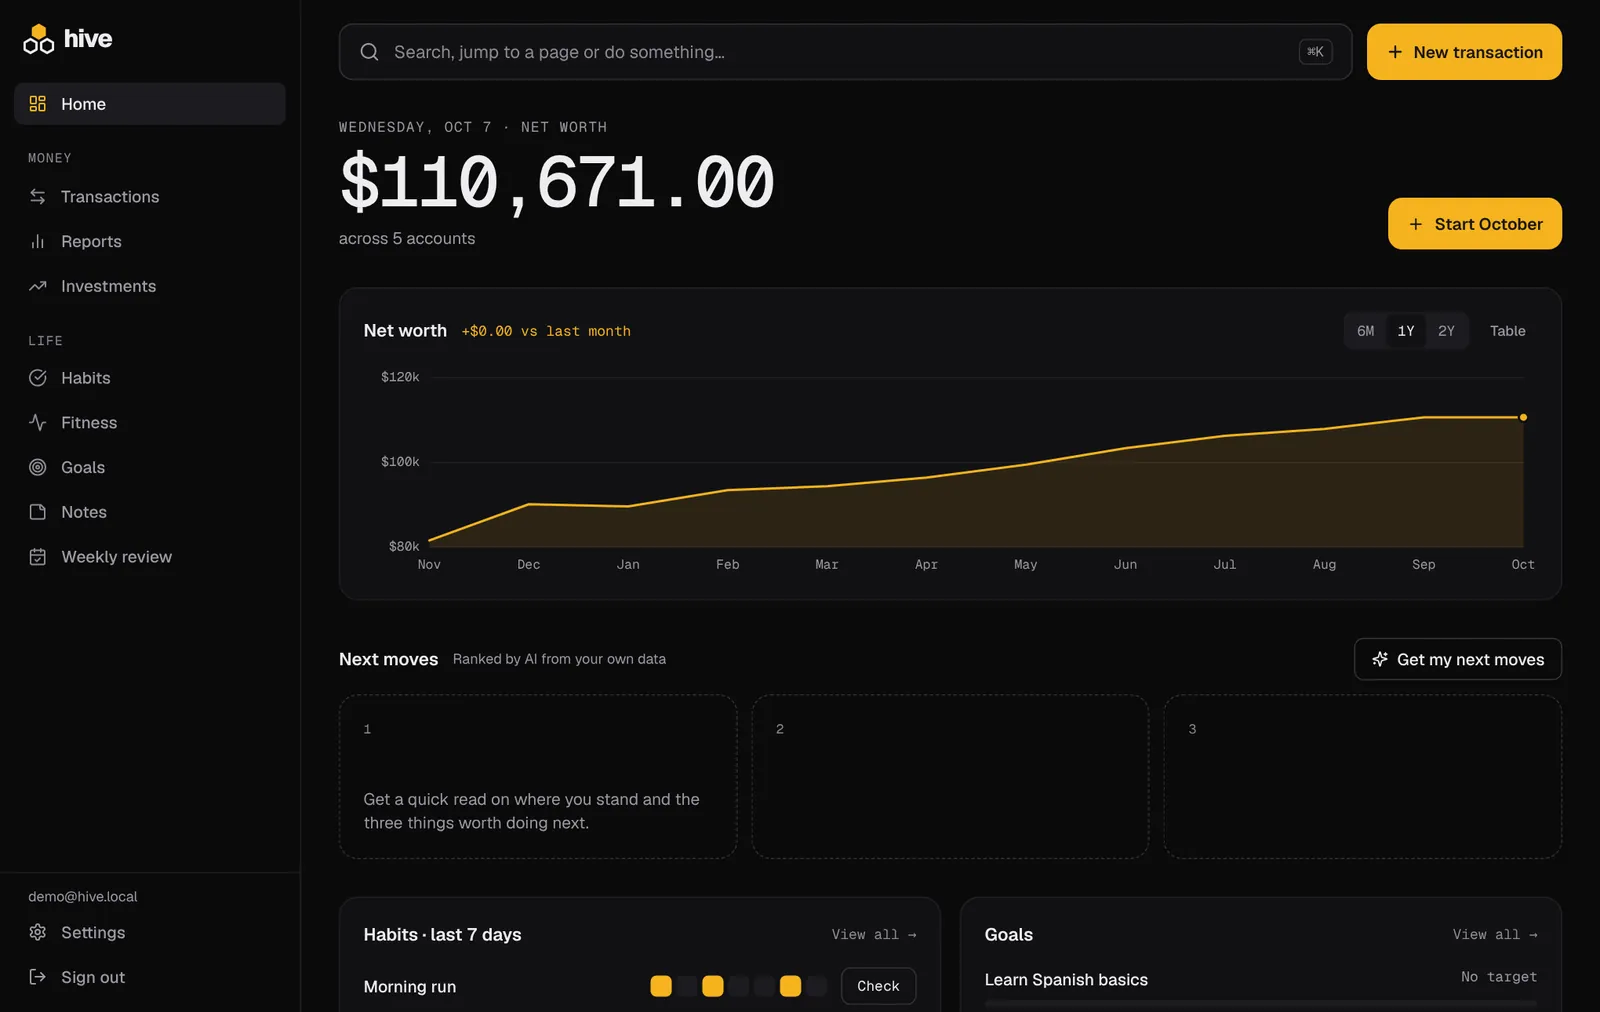
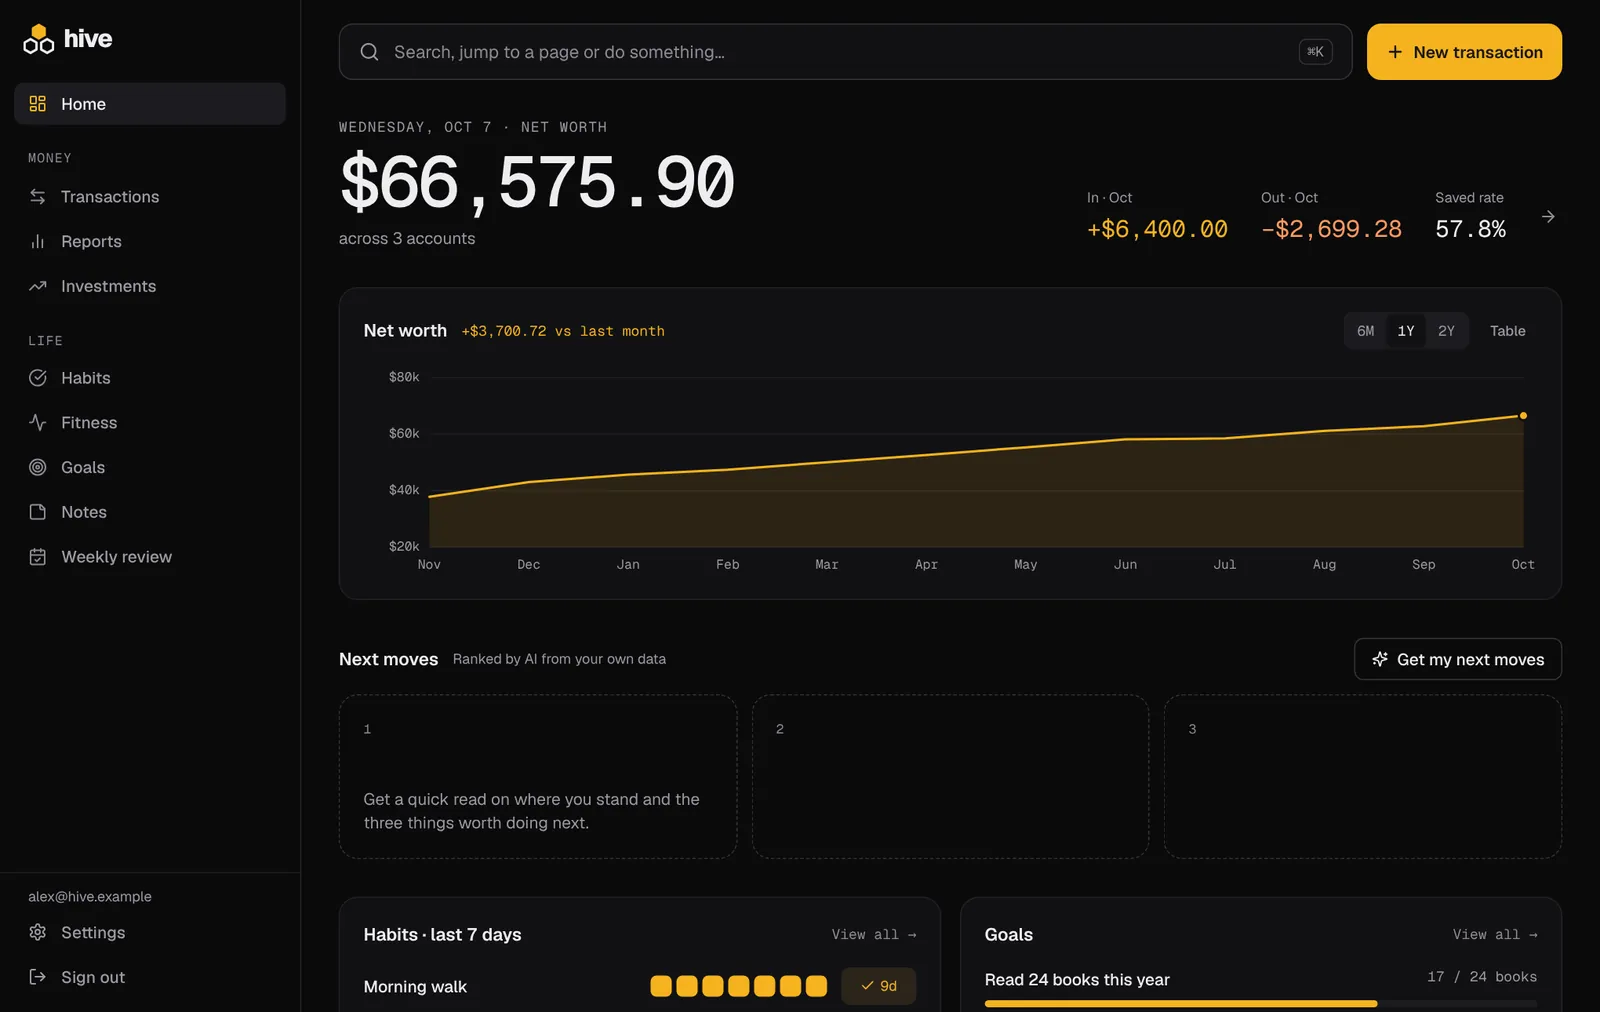
Website: invented showcase data, no feature tags
All screenshots are re-shot from a showcase account filled with invented data
(dev/showcase-seed.mjs: generic accounts, categories and merchants, a year of
transactions, a typical-month template, habits, goals, fitness and notes) instead
of a test user. The "Set it up once" example uses the same numbers. The row of
feature tags under the hero is removed.

Claude-Session: https://claude.ai/code/session_01NoL1CCcyv8bjkoG6VAD5ty

diff --git a/website/src/app/page.tsx b/website/src/app/page.tsx
@@ -3,20 +3,11 @@ import {
   ArrowRight,
   Check,
   Plus,
-  Wallet,
-  PieChart,
   Sparkles,
   Lock,
   Ban,
   EyeOff,
   Plug,
-  FileText,
-  CheckCircle,
-  Target,
-  StickyNote,
-  Activity,
-  TrendingUp,
-  CalendarCheck,
   LucideIcon,
 } from "lucide-react";
 import { Browser, Phone } from "@/components/Frames";
@@ -27,7 +18,6 @@ export default function Home() {
   return (
     <>
       <Hero />
-      <Modules />
       <HowItWorks />
       <Features />
       <Privacy />
@@ -111,36 +101,6 @@ function Hero() {
   );
 }
 
-const MODULE_CHIPS: { label: string; icon: LucideIcon }[] = [
-  { label: "Transactions", icon: Wallet },
-  { label: "Reports", icon: PieChart },
-  { label: "Budget templates", icon: FileText },
-  { label: "Investments", icon: TrendingUp },
-  { label: "Habits", icon: CheckCircle },
-  { label: "Fitness", icon: Activity },
-  { label: "Goals", icon: Target },
-  { label: "Notes & journal", icon: StickyNote },
-  { label: "Weekly review", icon: CalendarCheck },
-  { label: "AI next moves", icon: Sparkles },
-];
-
-function Modules() {
-  return (
-    <section aria-label="What's inside" className="border-y border-line bg-surface">
-      <div className="mx-auto max-w-6xl px-4 sm:px-6 py-6 sm:py-7">
-        <ul className="flex flex-wrap justify-center gap-2 sm:gap-2.5">
-          {MODULE_CHIPS.map(({ label, icon: Icon }) => (
-            <li key={label} className="h-9 px-3.5 inline-flex items-center gap-2 rounded-full border border-line bg-canvas text-sm text-fg-2">
-              <Icon size={15} className="text-accent-text" aria-hidden="true" />
-              {label}
-            </li>
-          ))}
-        </ul>
-      </div>
-    </section>
-  );
-}
-
 const STEPS = [
   {
     title: "Set it up once",
@@ -148,9 +108,9 @@ const STEPS = [
     visual: (
       <div className="space-y-2" aria-hidden="true">
         {[
-          ["Salary", "+8,220", "text-accent-text"],
-          ["Rent", "−1,495", "text-fg"],
-          ["To savings", "1,000", "text-muted"],
+          ["Salary", "+6,400", "text-accent-text"],
+          ["Rent", "−1,850", "text-fg"],
+          ["To savings", "800", "text-muted"],
         ].map(([a, b, c]) => (
           <div key={a} className="flex items-center justify-between h-9 px-3 rounded-lg bg-canvas border border-line text-sm">
             <span>{a}</span>
